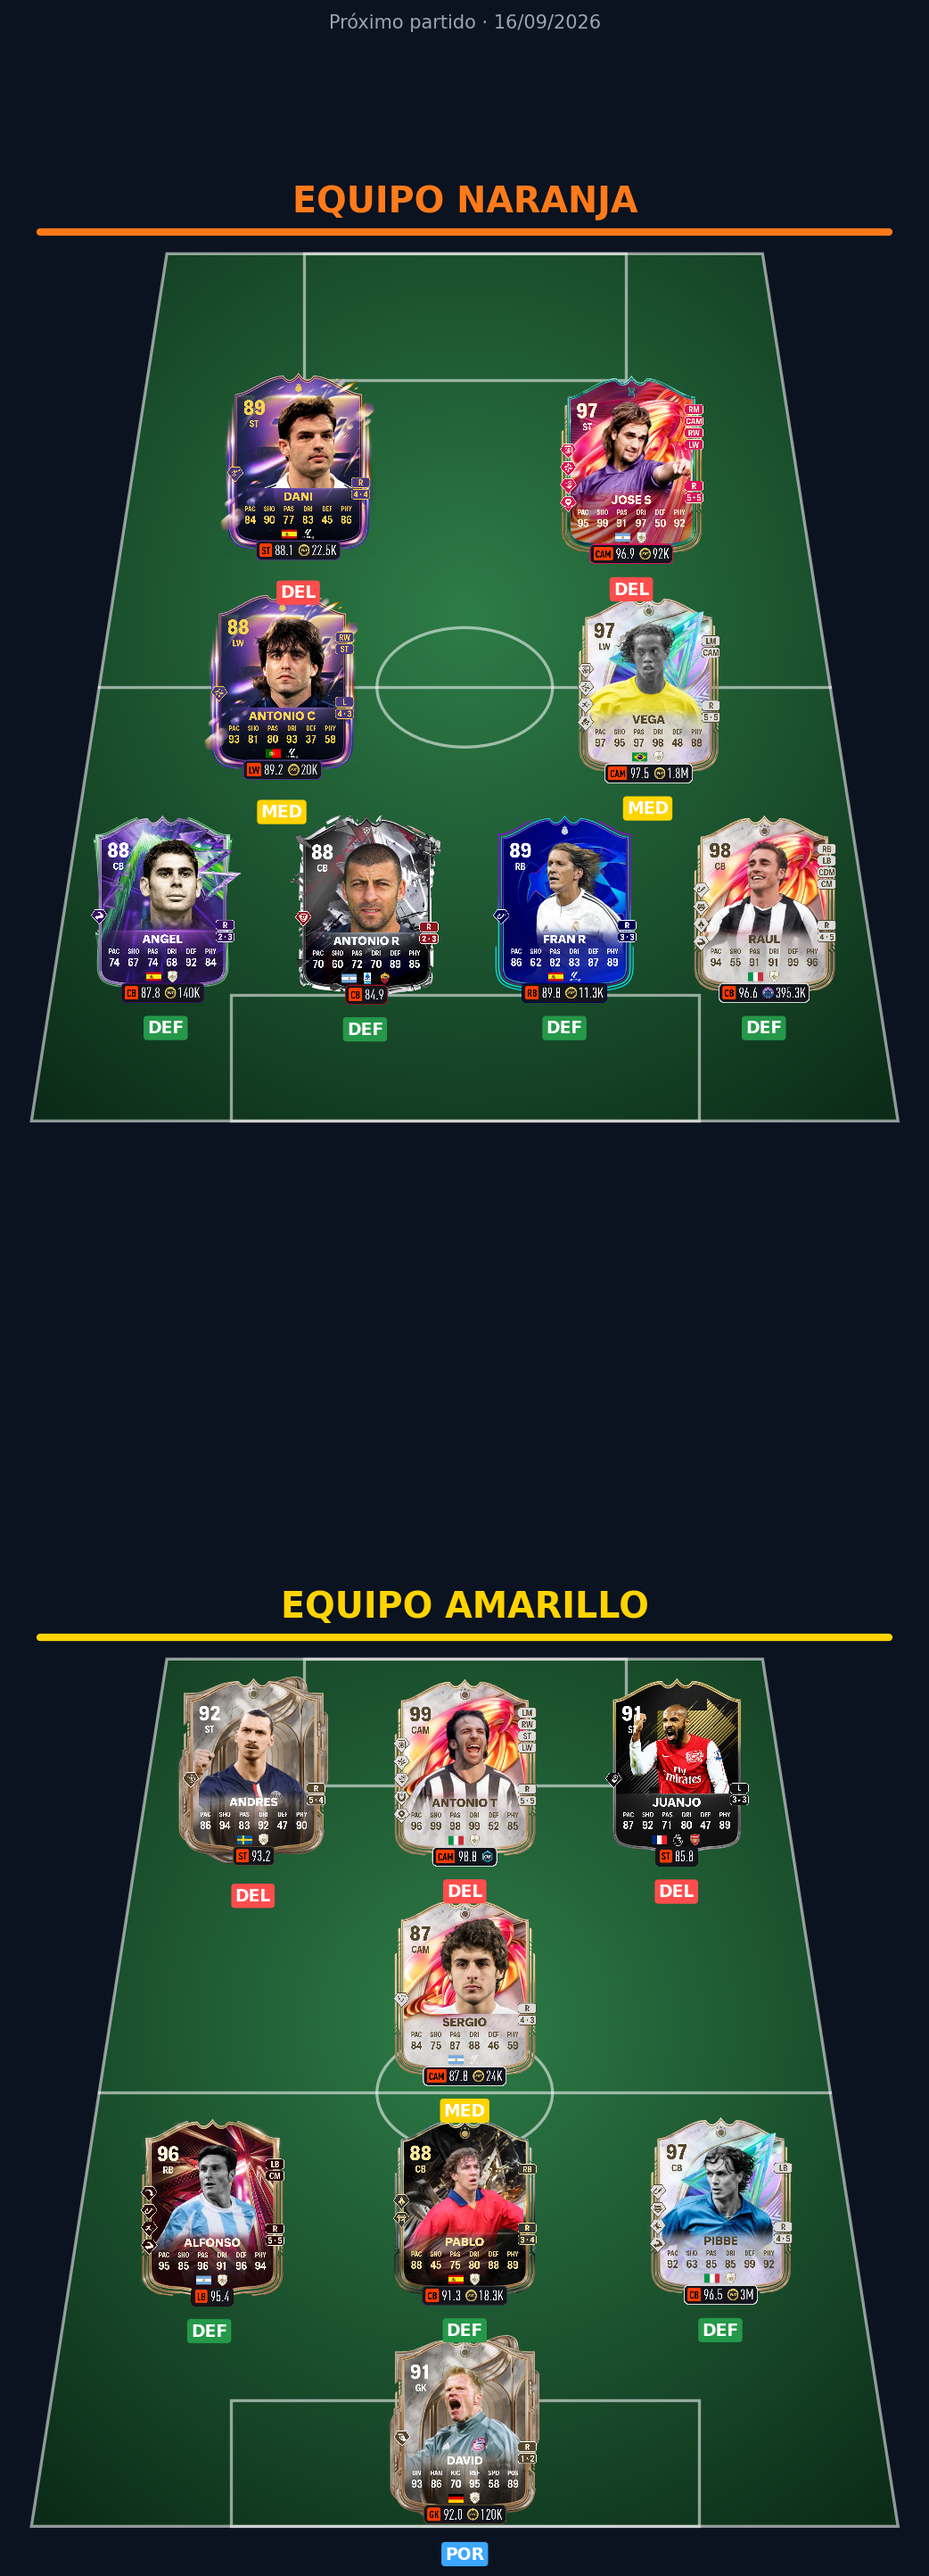
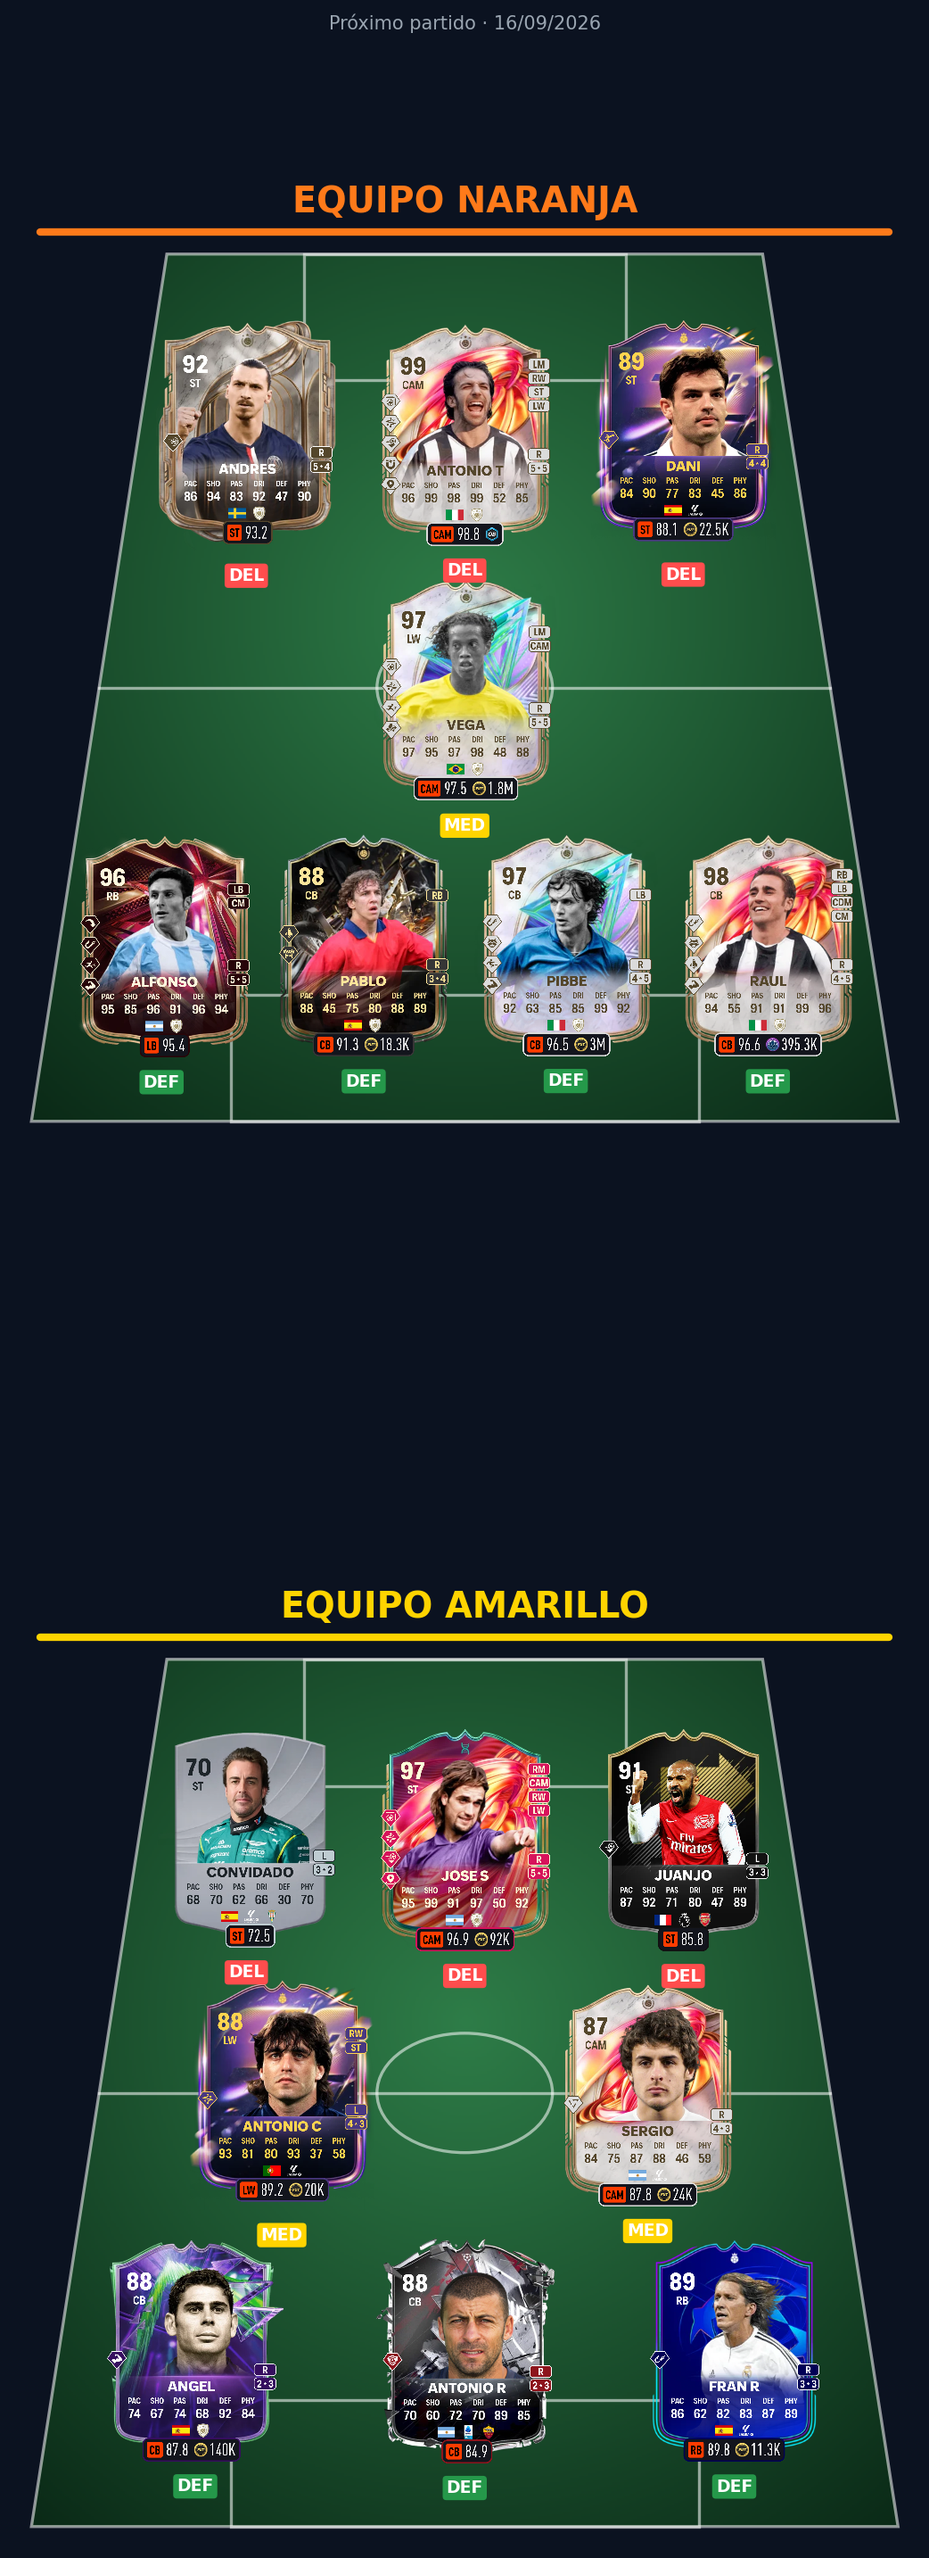
Actualizar resultados y estadisticas (16/09/2026 18:16)

diff --git a/index.html b/index.html
@@ -258,7 +258,7 @@
 <header>
   <img class="crest" src="img/escudo.png" alt="Escudo Peña QueSeFolme">
   <h1>Peña QueSeFolme</h1>
-  <p>Resultados y Estadísticas · Actualizado el 15/09/2026 21:12</p>
+  <p>Resultados y Estadísticas · Actualizado el 16/09/2026 18:16</p>
 </header>
 <nav>
   <a href="#proximo">🔜 Próximo partido</a>
@@ -274,8 +274,8 @@
     <p class="muted" style="text-align:center;">16/09/2026</p>
     <img src="img/proximo_partido.png" alt="Alineación del 16/09/2026" loading="lazy">
     <div class="scorers-row" style="margin-top:18px;">
-      <div><h3 style="color:var(--naranja);">Naranja</h3><ul class="scorers"><li>Angel <span class="muted">(DEF)</span></li><li>AntonioC <span class="muted">(MED)</span></li><li>AntonioR <span class="muted">(DEF)</span></li><li>Dani <span class="muted">(DEL)</span></li><li>FranR <span class="muted">(DEF)</span></li><li>JoseS <span class="muted">(DEL)</span></li><li>Raul <span class="muted">(DEF)</span></li><li>Vega <span class="muted">(MED)</span></li></ul></div>
-      <div><h3 style="color:var(--amarillo);">Amarillo</h3><ul class="scorers"><li>Alfonso <span class="muted">(DEF)</span></li><li>Andres <span class="muted">(DEL)</span></li><li>AntonioT <span class="muted">(DEL)</span></li><li>David <span class="muted">(POR)</span></li><li>Juanjo <span class="muted">(DEL)</span></li><li>Pablo <span class="muted">(DEF)</span></li><li>Pibbe <span class="muted">(DEF)</span></li><li>Sergio <span class="muted">(MED)</span></li></ul></div>
+      <div><h3 style="color:var(--naranja);">Naranja</h3><ul class="scorers"><li>Alfonso <span class="muted">(DEF)</span></li><li>Andres <span class="muted">(DEL)</span></li><li>AntonioT <span class="muted">(DEL)</span></li><li>Dani <span class="muted">(DEL)</span></li><li>Pablo <span class="muted">(DEF)</span></li><li>Pibbe <span class="muted">(DEF)</span></li><li>Raul <span class="muted">(DEF)</span></li><li>Vega <span class="muted">(MED)</span></li></ul></div>
+      <div><h3 style="color:var(--amarillo);">Amarillo</h3><ul class="scorers"><li>Angel <span class="muted">(DEF)</span></li><li>AntonioC <span class="muted">(MED)</span></li><li>AntonioR <span class="muted">(DEF)</span></li><li>Convidado4 <span class="muted">(DEL)</span></li><li>FranR <span class="muted">(DEF)</span></li><li>JoseS <span class="muted">(DEL)</span></li><li>Juanjo <span class="muted">(DEL)</span></li><li>Sergio <span class="muted">(MED)</span></li></ul></div>
     </div>
   </section>
   <section id="clasificacion">
